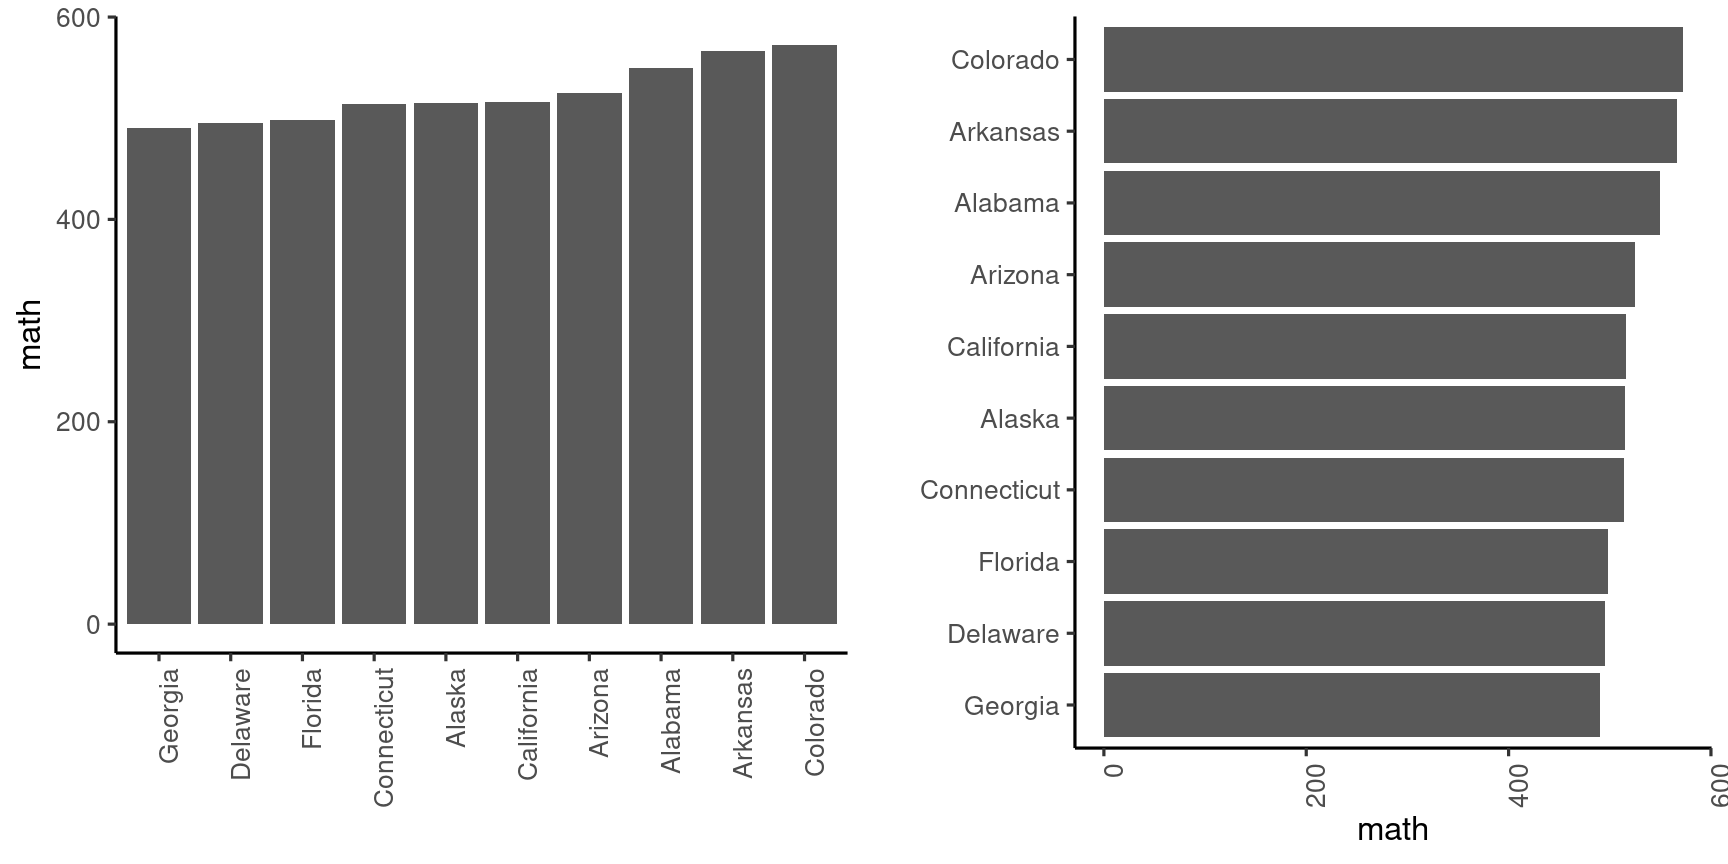
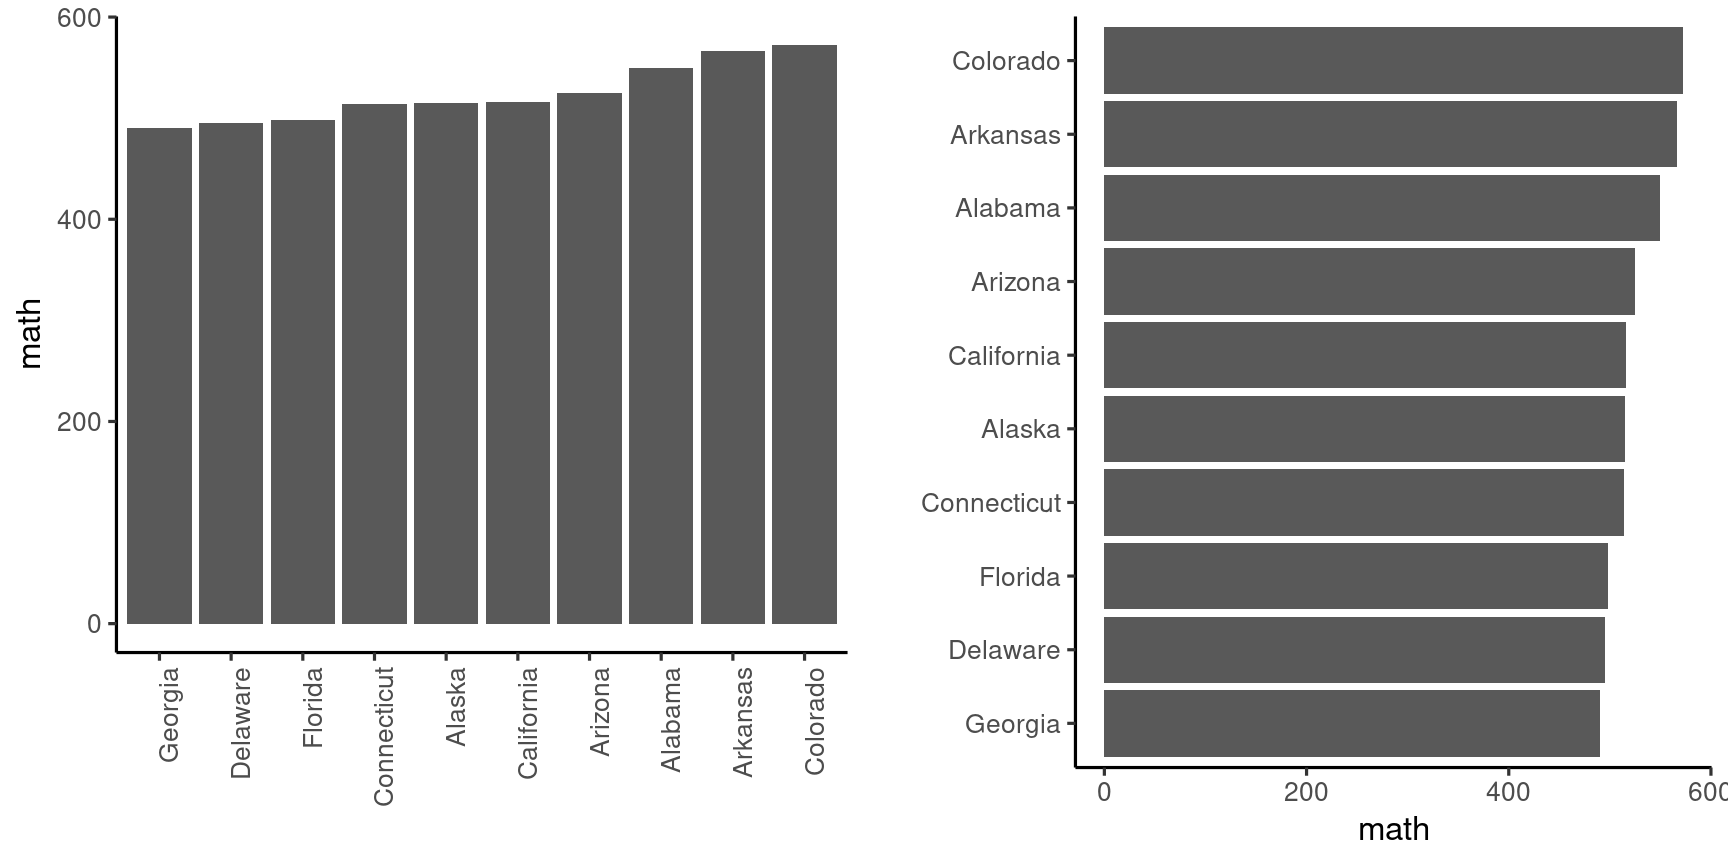
Rotate stuff

diff --git a/intro_visualization.html b/intro_visualization.html
@@ -285,10 +285,10 @@ class: clear
 Now compare the following codes
 
 ```r
-p1 &lt;- ggplot(data = head(SAT_2010,10), aes(x = reorder(state, math), y = math)) +
-  xlab("") + geom_col() +
-  theme(axis.text.x = element_text(angle = 90, hjust = 1))
-p2 &lt;- p1 + coord_flip()
+p &lt;- ggplot(data = head(SAT_2010,10), aes(x = reorder(state, math), y = math)) +
+  xlab("") + geom_col() 
+p1 &lt;- p + theme(axis.text.x = element_text(angle = 90, hjust = 1))
+p2 &lt;- p + coord_flip()
 grid.arrange(p1,p2,ncol = 2)
 ```
 
@@ -299,9 +299,8 @@ Now compare the following codes.
 
 ```r
 p &lt;- ggplot(data = head(SAT_2010,10), aes(x = reorder(state, math), y = math)) +
-  xlab("") + geom_col() + 
-  theme(axis.text.x = element_text(angle = 90, hjust = 1))
-p1 &lt;- p + scale_y_reverse()
+  xlab("") + geom_col() 
+p1 &lt;- p + scale_y_reverse() + theme(axis.text.x = element_text(angle = 90, hjust = 1))
 p2 &lt;- p + scale_y_reverse() + coord_flip()
 grid.arrange(p1,p2,ncol = 2)
 ```
